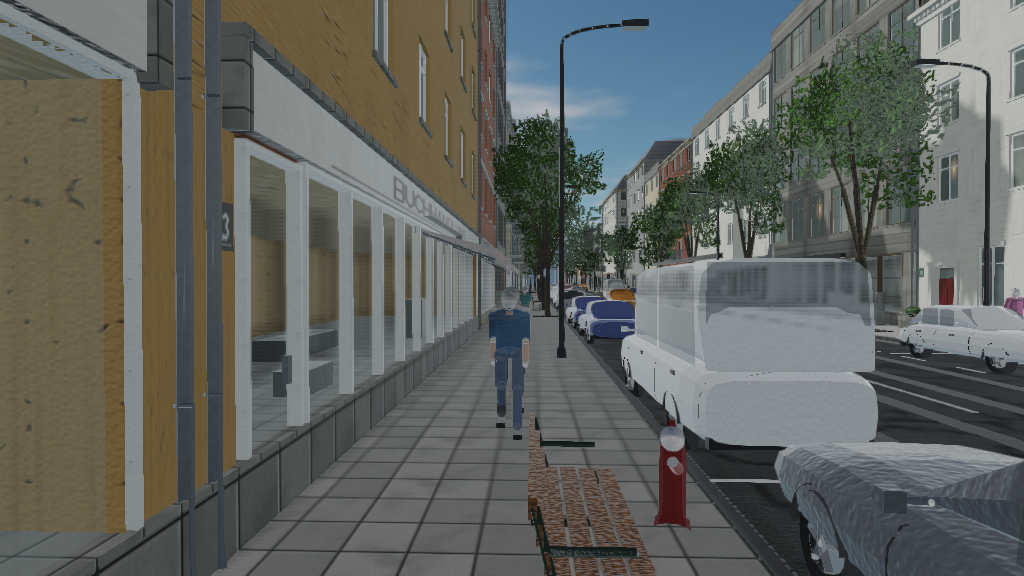
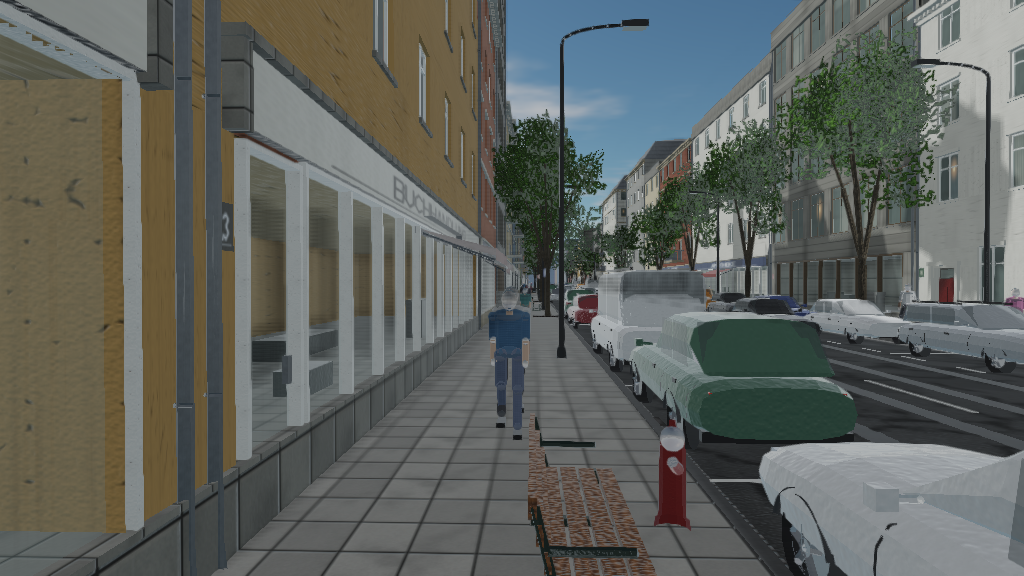
polish: a street with people on it, seen from somewhere worth standing
Five things a screenshot found.

The bus shelter stood six metres in front of the first viewpoint, where a
four-metre glass box is the whole picture. It is on the opposite footway
now: a shelter is scenery seen from across the street and an obstruction
seen from underneath.

The crossing viewpoint stood in a running traffic lane and spent half its
frames behind a van. The lanes are at +/-1.65 and a car is 1.84 m wide,
so the metre and a half of centre line between them is the only place in
the carriageway a camera can stand.

The footways were empty: 46 people over about a kilometre of pavement is
one every twenty metres, which is a quiet Sunday rather than a shopping
street. There are 78 now, and 30 vehicles moving. They are affordable
because the renderer culls a mover by distance as well as by frustum --
a person at 200 m is three pixels tall and used to cost the same three
draw calls as a person at three metres.

The ground outside the modelled district was varied at 92 m with a third
of the cells green, which from any camera above the roofline is a
chequerboard of meadows around a dense city block. It varies at 38 m now,
green is the exception, and it batches at 152 m -- fine variation and
five hundred draw calls of two triangles each is not a trade worth
making.

White and silver car paint came down from 0.86 to 0.70 albedo, which is
what a white car in sun actually reflects rather than what clips.

Changed region(s): [[0.5312, 0.4375, 1.0, 1.0]]

diff --git a/street/src/Scene/CityScene.cpp b/street/src/Scene/CityScene.cpp
@@ -154,8 +154,11 @@ void CityScene::buildContext(GeometryCollector& collector, Rng& rng)
 
     // The ground plane, in cells so it culls, and set a little below the road so
     // it can never win a depth fight with it.
+    // Small cells, and green is the exception. At 92 m a cell is a field, and a
+    // third of them green turned the district's surroundings into a chequerboard
+    // of meadows visible from any camera above the roofline.
     constexpr float kReach = 460.0f;
-    constexpr float kStep  = 92.0f;
+    constexpr float kStep  = 38.0f;
     for (float x = -kReach; x < kReach; x += kStep)
         for (float z = -kReach; z < kReach; z += kStep)
         {
@@ -164,8 +167,20 @@ void CityScene::buildContext(GeometryCollector& collector, Rng& rng)
             // Laid under the street rather than around it: leaving a hole where
             // the modelled block sits shows the sky's below-horizon haze through
             // every gap between a building and the kerb.
-            collector.setRegion((x + x1) * 0.5f, (z + z1) * 0.5f);
-            MeshBuilder& builder = collector.builder(rng.chance(0.35f) ? grass : ground);
+            //
+            // Varied at 38 m and batched at 152 m. The variation has to be fine
+            // or the surroundings read as a chequerboard of fields from any
+            // camera above the roofline; the batching has to be coarse or the
+            // ground plane alone is five hundred draw calls of two triangles
+            // each.
+            constexpr float kBatch = 152.0f;
+            const int coarseX = static_cast<int>(std::floor((x + x1) * 0.5f / kBatch));
+            const int coarseZ = static_cast<int>(std::floor((z + z1) * 0.5f / kBatch));
+            // Offset clear of the keys setRegion() derives for the blocks
+            // in this same collector, so a collision cannot quietly merge a
+            // ground cell with a building.
+            collector.setRegionKey(1000000 + coarseX * 64 + coarseZ);
+            MeshBuilder& builder = collector.builder(rng.chance(0.14f) ? grass : ground);
             builder.setTileSize(8.0f);
             builder.addQuad(Vector3(x, -0.04f, z), Vector3(x, -0.04f, z1), Vector3(x1, -0.04f, z1),
                             Vector3(x1, -0.04f, z));
@@ -563,11 +578,14 @@ void CityScene::buildStreetFurniture(Rng& rng, const RenderSettings& settings)
     }
 
     // --- the bus stop -------------------------------------------------------
-    // One shelter, on the west footway of the northern arm, set in the furniture
-    // zone with the walking width kept clear behind it.
-    if (runs.size() > 1)
+    // One shelter, on the *east* footway of the northern arm, set in the
+    // furniture zone with the walking width kept clear behind it. It was on the
+    // west footway, six metres in front of the first viewpoint, where a
+    // four-metre glass box is the whole picture: a shelter is scenery seen from
+    // across the street and an obstruction seen from underneath.
+    if (runs.size() > 3)
     {
-        const FootwayRun& run = runs[1];
+        const FootwayRun& run = runs[3];
         const float lateral = run.width * 0.5f - 1.05f;
         const Vector3 p(run.start.X + run.toKerb.X * lateral, ground,
                         run.start.Y + 34.0f + run.toKerb.Y * lateral);
@@ -1102,16 +1120,16 @@ void CityScene::buildTrafficAndPeople(const RenderSettings& settings)
     // the saturated cars are the exception that makes the row read as a row of
     // individual cars rather than a colour chart.
     static const Vector3 kPaints[TrafficSystem::kVariantCount] = {
-        Vector3(0.78f, 0.79f, 0.80f),   // silver
+        Vector3(0.62f, 0.63f, 0.65f),   // silver
         Vector3(0.045f, 0.048f, 0.052f),// black
-        Vector3(0.86f, 0.86f, 0.85f),   // white
+        Vector3(0.70f, 0.70f, 0.69f),   // white
         Vector3(0.16f, 0.17f, 0.19f),   // graphite
         Vector3(0.09f, 0.13f, 0.30f),   // dark blue
         Vector3(0.42f, 0.44f, 0.45f),   // grey
         Vector3(0.30f, 0.06f, 0.07f),   // dark red
         Vector3(0.10f, 0.20f, 0.14f),   // British racing green
         Vector3(0.66f, 0.30f, 0.06f),   // copper
-        Vector3(0.88f, 0.88f, 0.87f),   // white van
+        Vector3(0.72f, 0.72f, 0.71f),   // white van
     };
 
     const VehicleFactory vehicles(materials_);
@@ -1191,8 +1209,11 @@ void CityScene::buildTrafficAndPeople(const RenderSettings& settings)
     // Built whatever the settings say: the traffic and pedestrian switches turn
     // off updating and drawing, and rebuilding the whole population when one is
     // flicked back on would stall the frame for no reason.
-    traffic_.build(settings.seed, 26, 38);
-    pedestrians_.build(layout_, crossings_, settings.seed, 46);
+    // The counts a shopping street of this size actually carries. They are
+    // affordable because the renderer culls a mover by distance as well as by
+    // frustum: what is on screen is a few dozen, whatever the population is.
+    traffic_.build(settings.seed, 30, 44);
+    pedestrians_.build(layout_, crossings_, settings.seed, 78);
     buildStats_.vehicles = static_cast<int>(traffic_.vehicles().size());
     buildStats_.people   = static_cast<int>(pedestrians_.people().size());
 }
@@ -1217,8 +1238,12 @@ void CityScene::buildViewpoints()
     // bumper. A viewpoint that is not a place is not a view of the street.
     viewpoints_.push_back(Viewpoint{"Footway looking south to the junction",
                                     Vector3(-7.4f, eye, 46.0f), kSouth, -0.035f, 1.0996f});
+    // On the centre line rather than in a lane. The lanes are at +/-1.65 and a
+    // car is 1.84 m wide, so the metre and a half between them is the only place
+    // in the carriageway a camera can stand without spending half its frames
+    // inside a moving vehicle.
     viewpoints_.push_back(Viewpoint{"On the crossing",
-                                    Vector3(0.4f, eye, 19.0f), kSouth + 0.06f, 0.02f, 1.0996f});
+                                    Vector3(0.0f, eye, 15.5f), kSouth + 0.02f, 0.02f, 1.0996f});
     // On the footway outside the corner block, looking across the junction at it.
     viewpoints_.push_back(Viewpoint{"The corner block",
                                     Vector3(-7.6f, eye, 12.6f), kEast - 0.62f, 0.10f, 1.0996f});

diff --git a/street/src/Render/SceneRenderer.cpp b/street/src/Render/SceneRenderer.cpp
@@ -353,9 +353,17 @@ void SceneRenderer::cull(const Camera& camera, const RenderSettings& settings)
         ++stats_.visibleItems;
     }
 
+    // Movers are culled by distance as well as by frustum. A person at 200 m is
+    // three pixels tall and costs the same three draw calls as a person at
+    // three metres; without this the population of the street is bounded by
+    // what the far end of it can afford rather than by what the near end needs.
+    const float moverDistance = settings.propCullDistance > 0.0f
+                                    ? settings.propCullDistance
+                                    : 0.0f;
     for (std::size_t i = 0; i < dynamic_.size(); ++i)
     {
         const SceneItem& item = dynamic_[i];
+        if (moverDistance > 0.0f && DistanceToBox(eye, item.worldBounds) > moverDistance) continue;
         if (frustum.Contains(item.worldBounds) == ContainmentType::Disjoint) continue;
         visibleDynamic_.push_back(i);
         ++stats_.visibleItems;

diff --git a/README.md b/README.md
@@ -460,9 +460,9 @@ fraction of this.
 
 | | |
 | --- | --- |
-| Scene build | 8.0 s generating, 1.1 s from compiled content |
-| Static batches | 787 |
-| Triangles in the scene | 498 276 |
+| Scene build | 7.7 s generating, about 1 s of that from compiled content |
+| Static batches | 780 |
+| Triangles in the scene | 499 406 |
 | Geometry memory | 35 MiB |
 | Textures | 313 (145 catalogue surfaces plus per-shop signage) |
 | Texture memory | 291 MiB |
